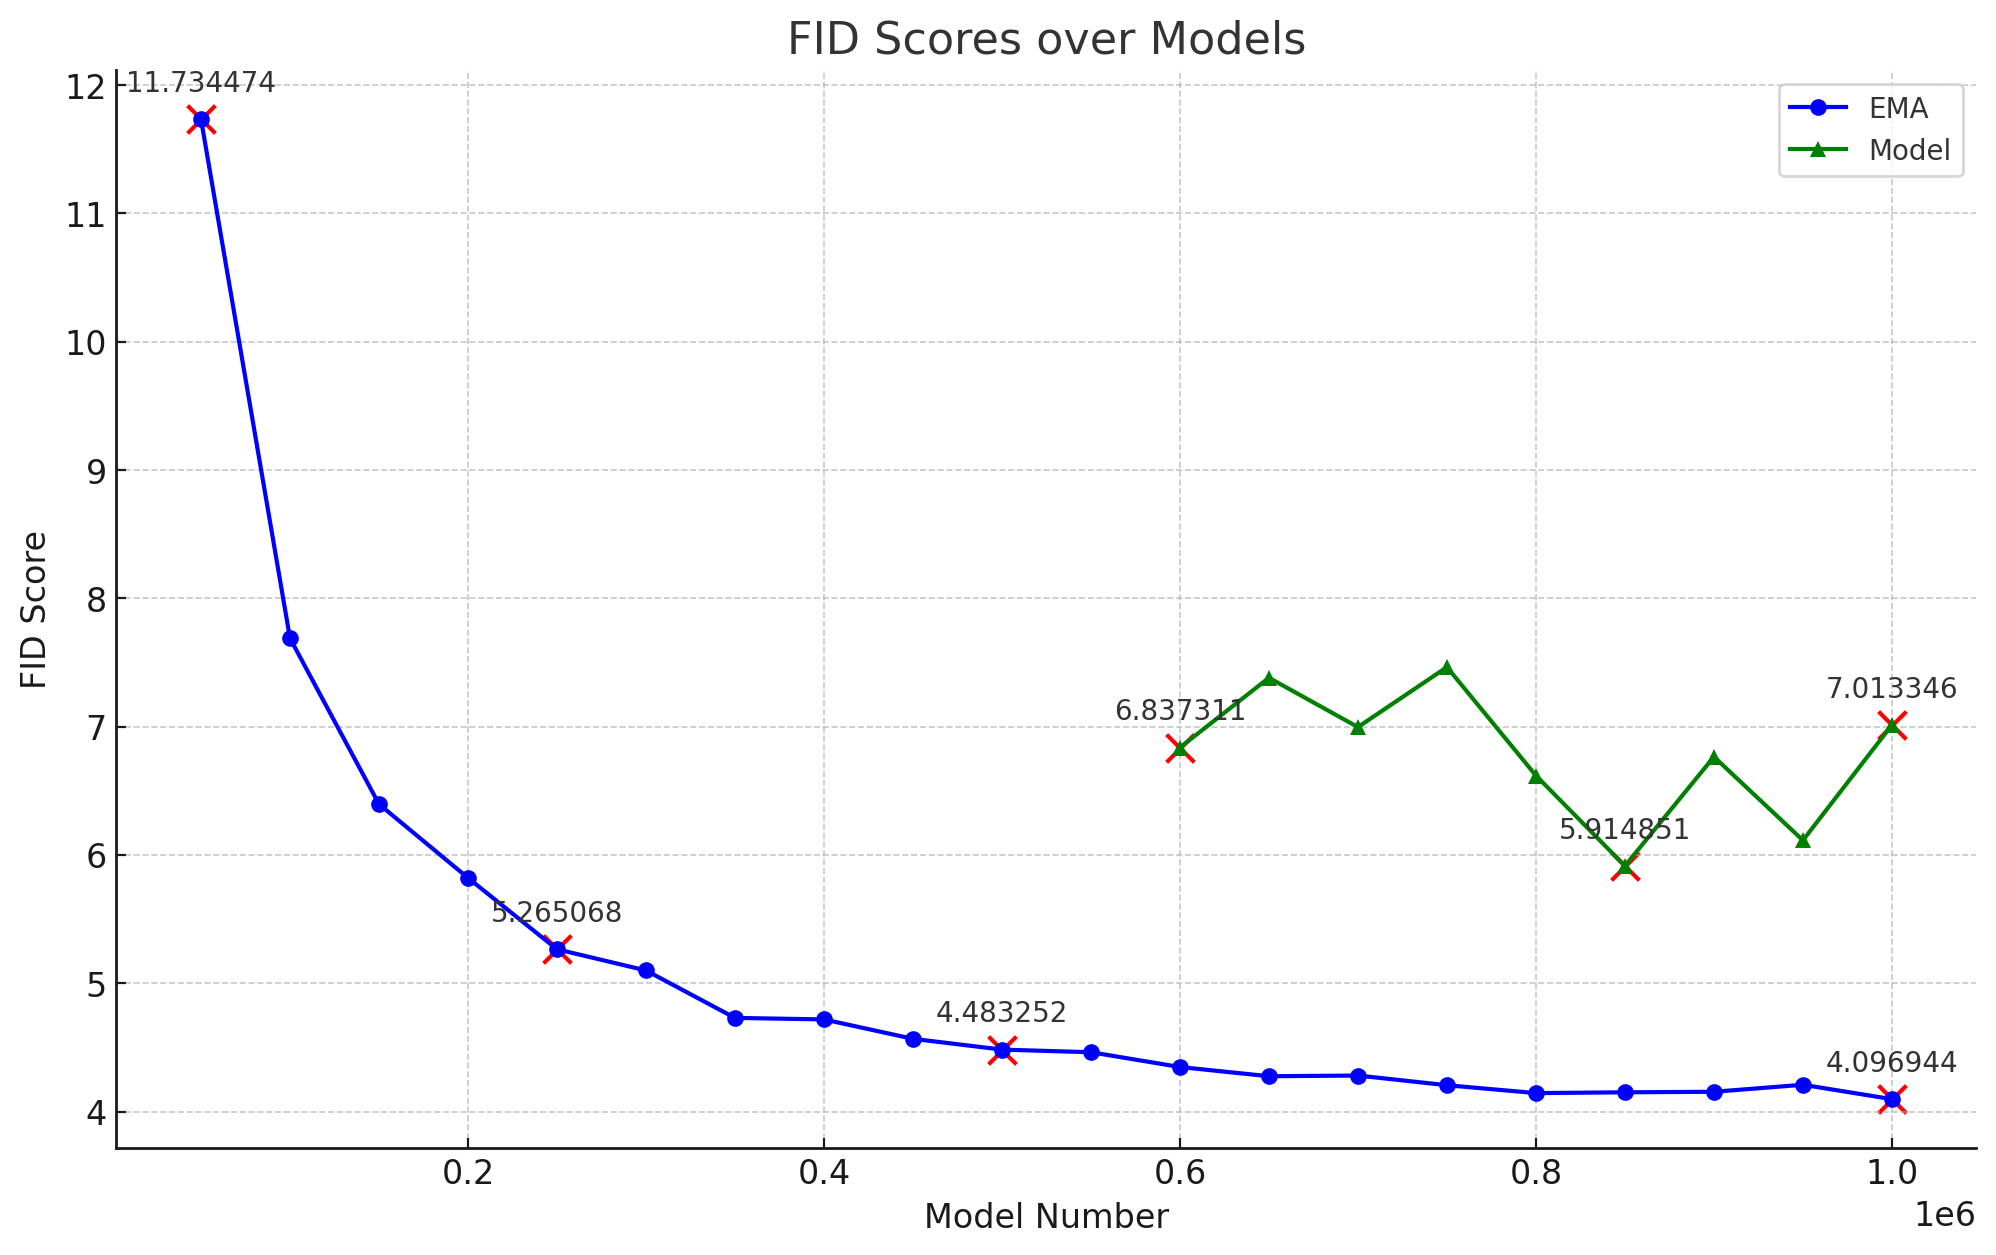
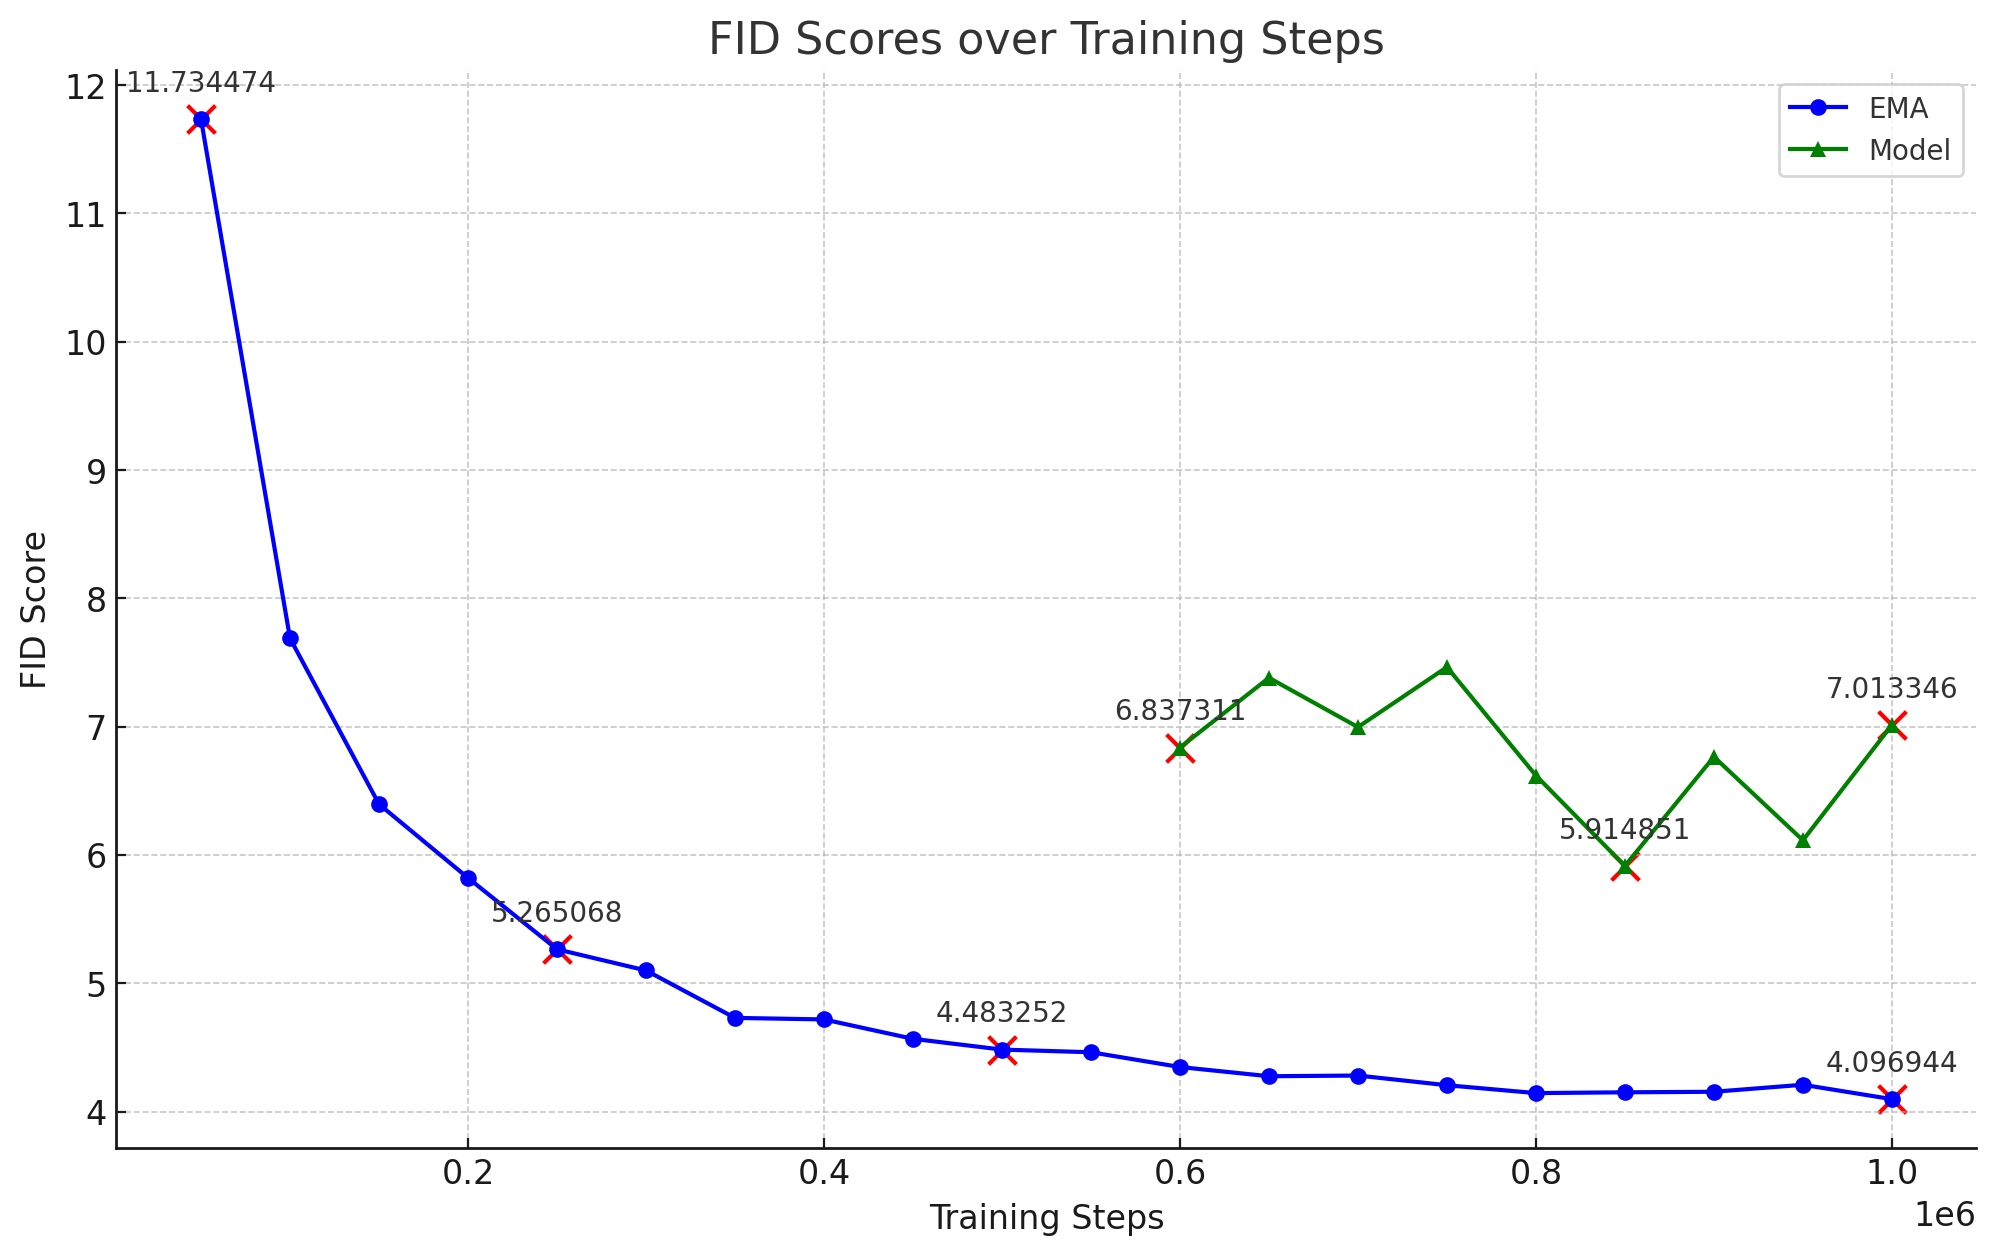
update

Changed region(s): [[0.3417, 0.0, 0.6834, 0.0622], [0.4659, 0.9633, 0.5902, 0.9944]]

diff --git a/README.md b/README.md
@@ -11,7 +11,7 @@ Results FID on CIFAIR-10:
   <em>FID of this implementation.</em>
 </p>
 
-Reference FID from the original EDM codebase using the same model architecture and the same batch size of 128 (nothing else changed):
+Reference FID (each snapshot=5000k images=5000k/128 steps) from the original EDM codebase using the same model architecture and the same batch size of 128 (nothing else changed):
 
 <p align="center">
   <img src="figs/EDM_fid.png" width="900px"/>
